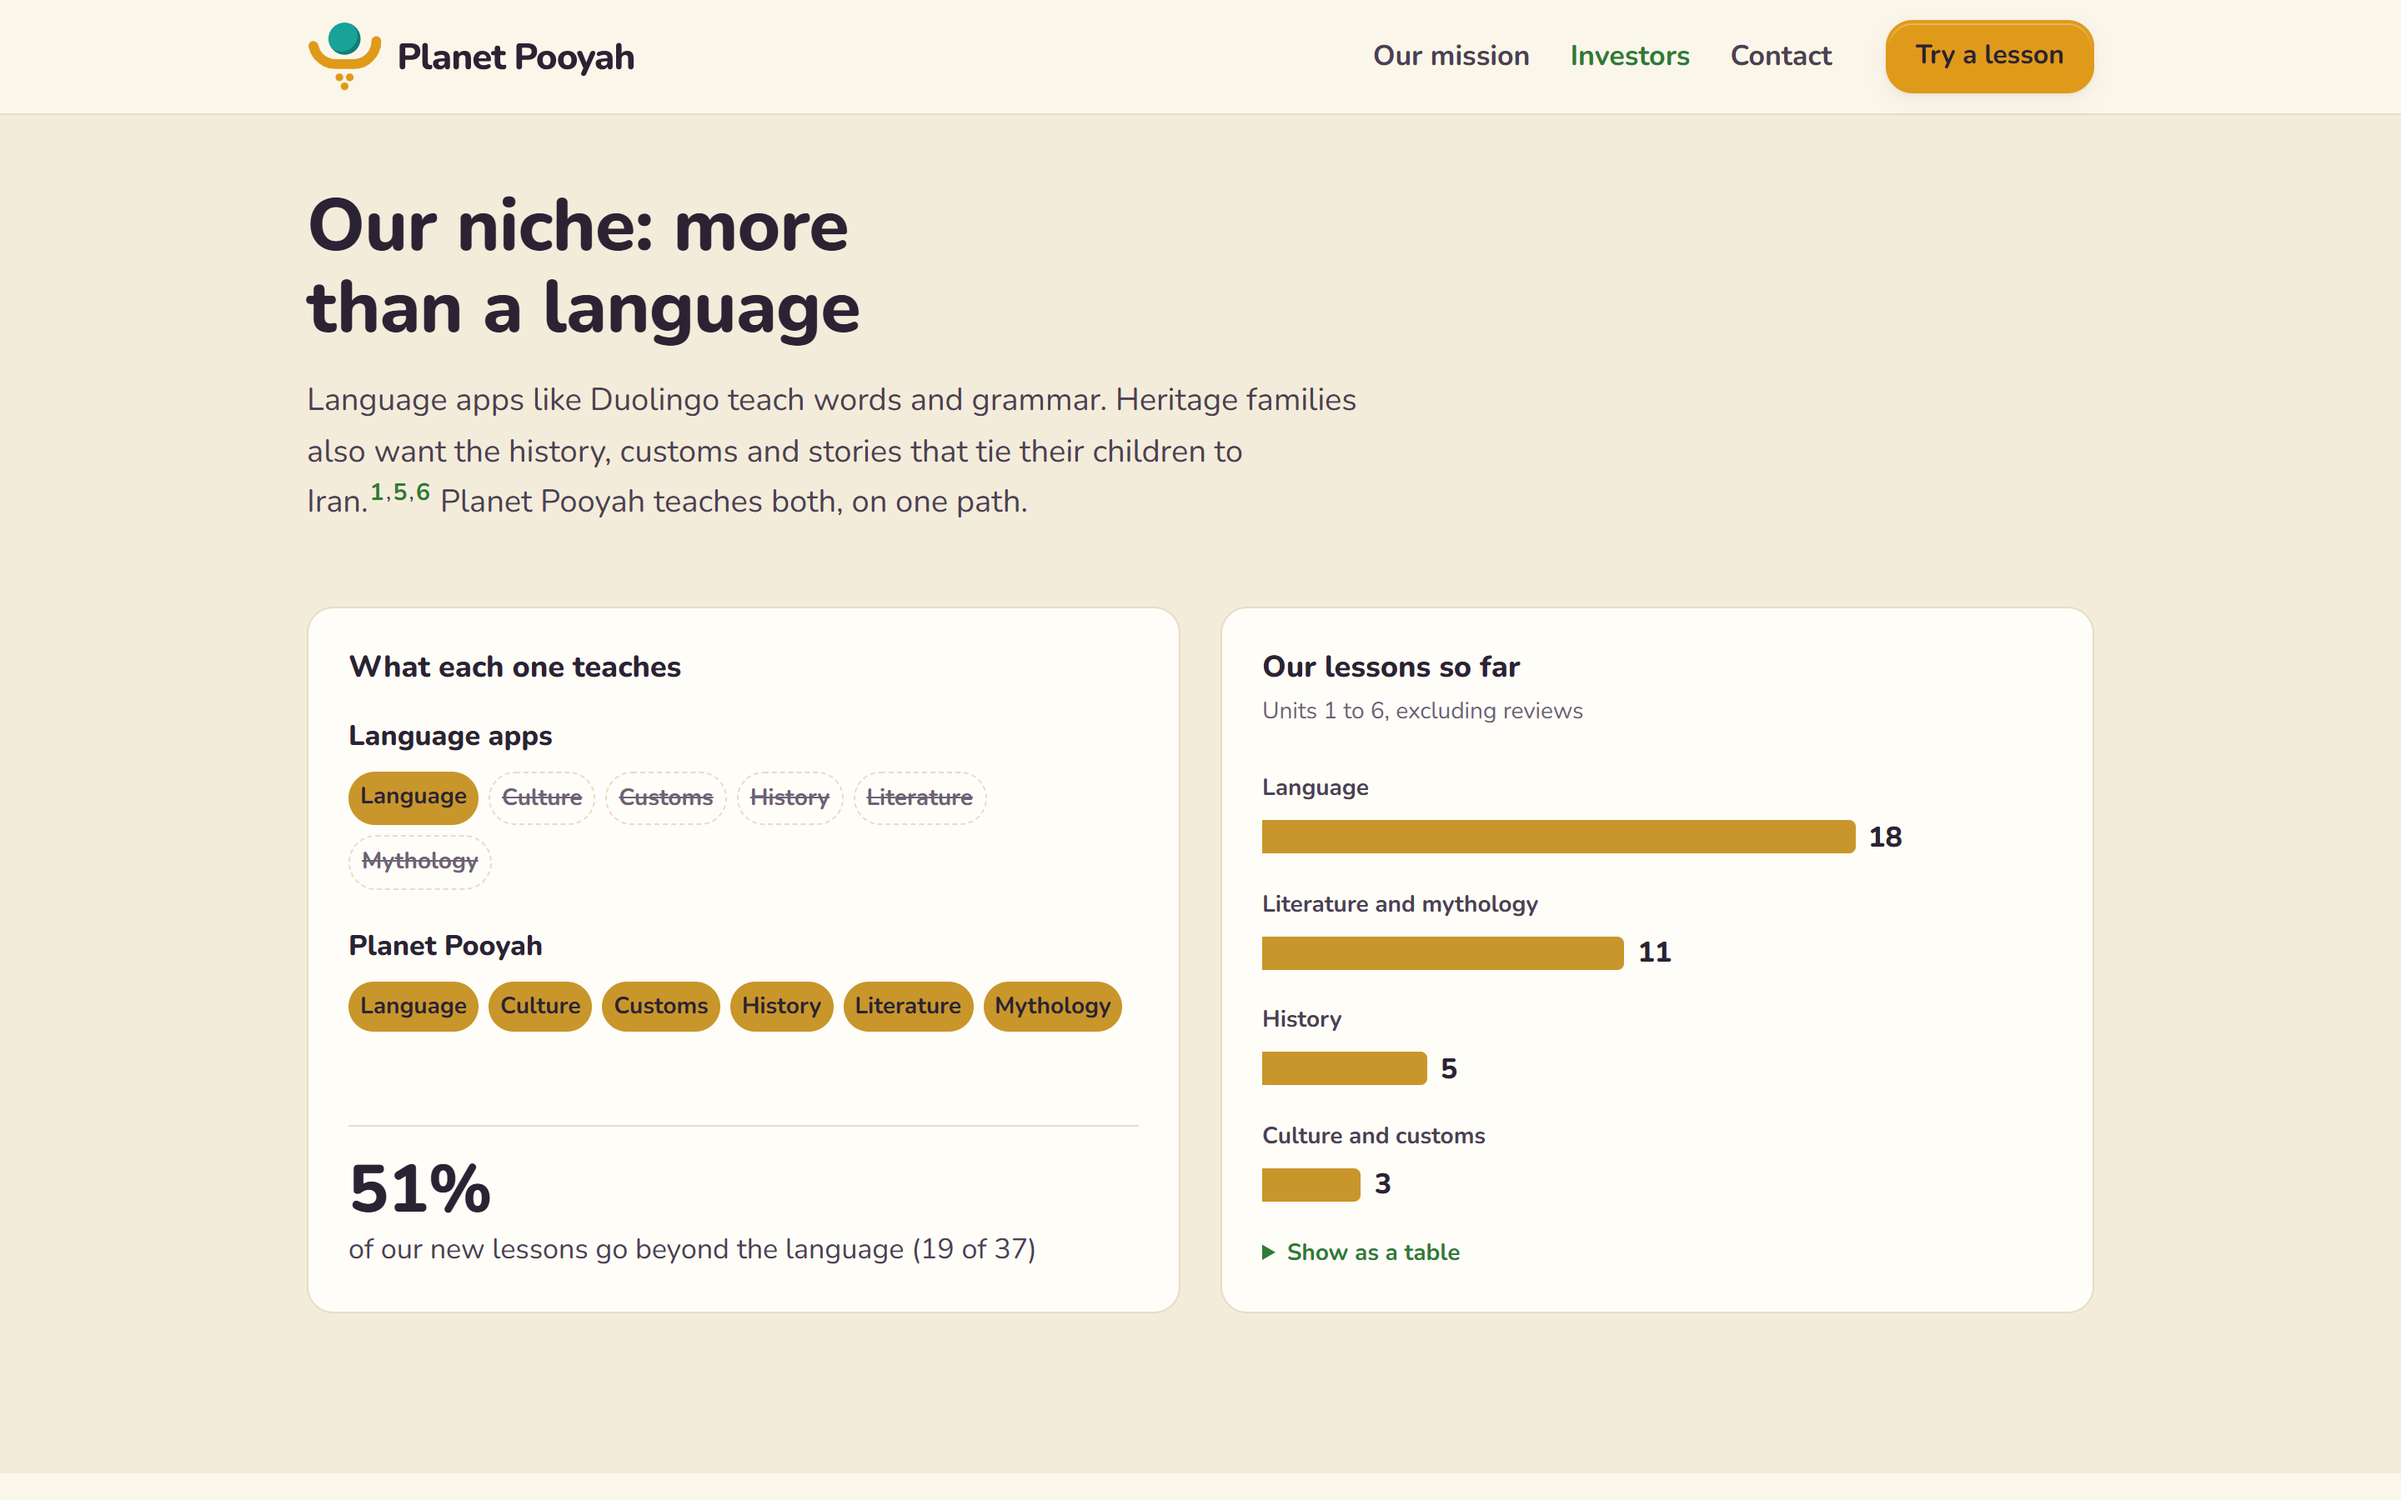
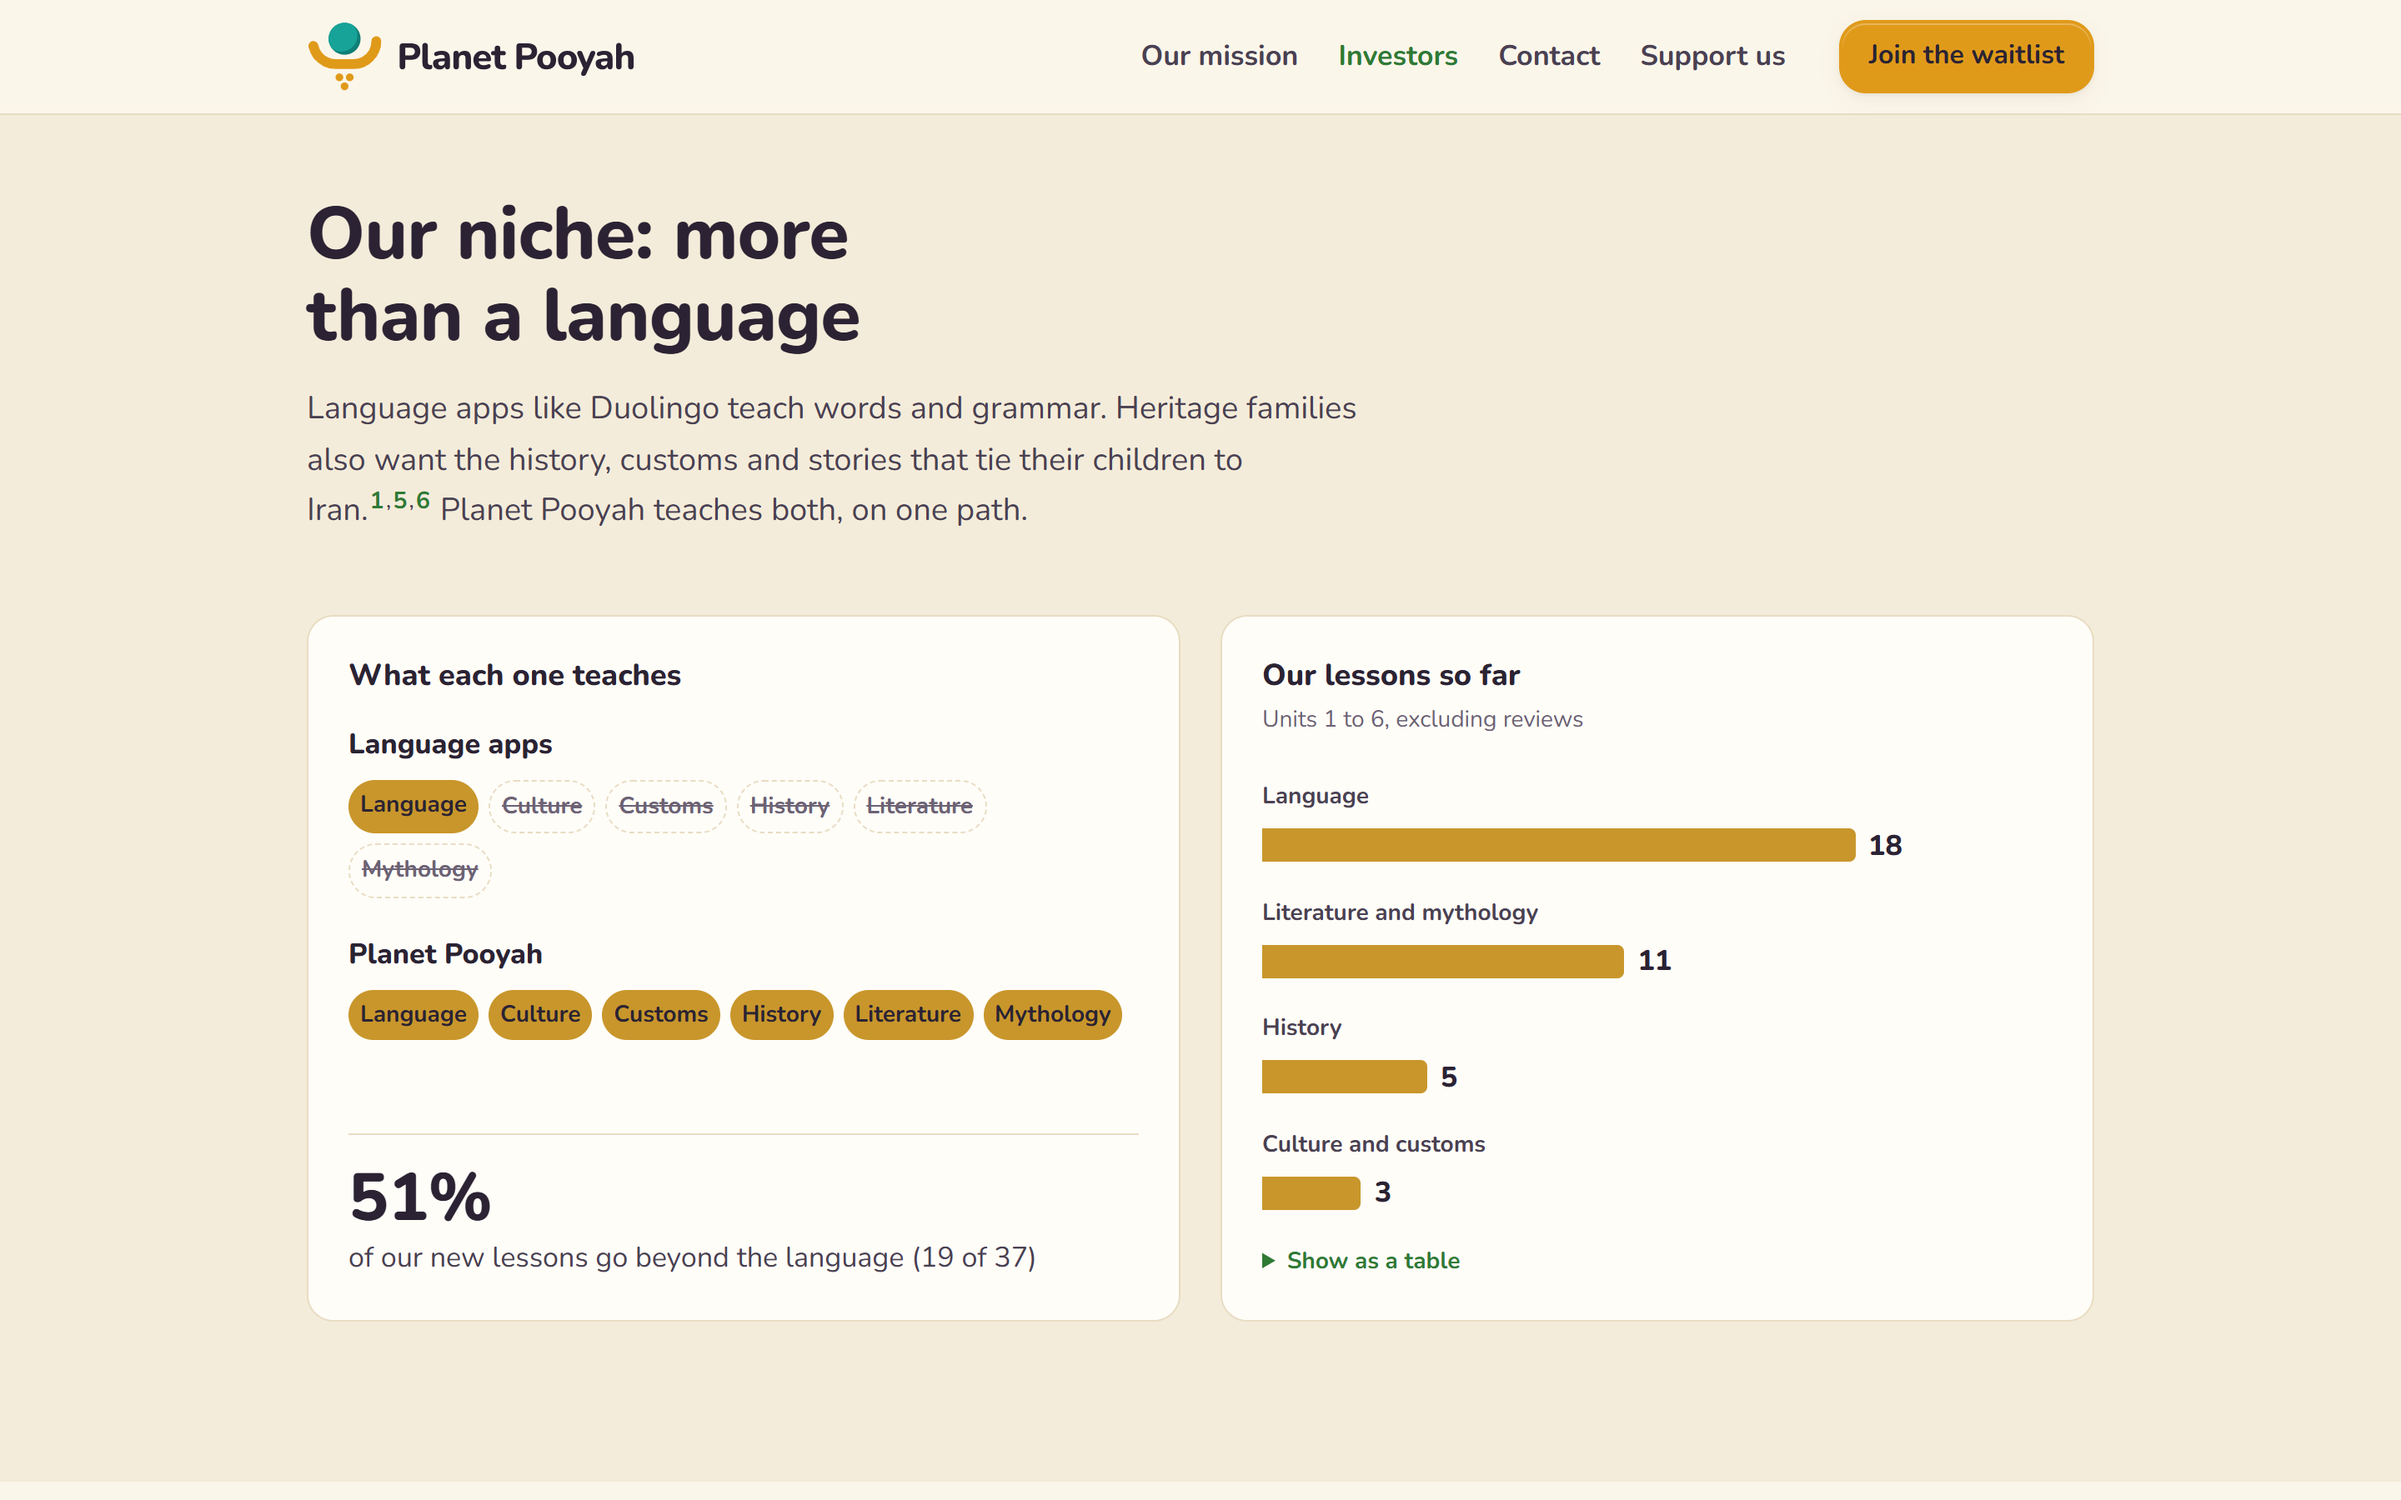
Update the Planet Pooyah case study for the waitlist and Support us page
- Recapture the website shots with the new nav, and the Plus page with its waitlist button
- Add the waitlist band, Support us page, and the demo's waitlist card, popup and form
- Cover Patreon, the D1 waitlist and its privacy rules; status now says the waitlist is open
- Three native voices, not two; 325 tests (243 unit, 82 API), also in the resume and PDF
- Rebuild the project card preview with the new home page

diff --git a/src/data/site.ts b/src/data/site.ts
@@ -187,7 +187,7 @@ export const resume = {
       dates: 'Oct 2026 – Present',
       points: [
         'Built a cross-platform learning app in Next.js and TypeScript for web, Android, and iOS from one codebase with Capacitor, on a Laravel REST API with offline-first sync that merges progress across devices.',
-        'Integrated Stripe subscriptions (Cashier, webhooks), Google/Apple sign-in, and child-privacy data minimization, covered by 316 automated tests (Vitest, PHPUnit).',
+        'Integrated Stripe subscriptions (Cashier, webhooks), Google/Apple sign-in, and child-privacy data minimization, covered by 325 automated tests (Vitest, PHPUnit).',
       ],
     },
   ],
